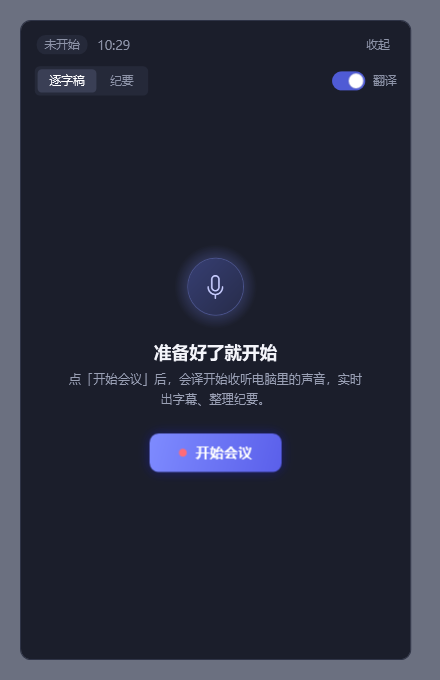
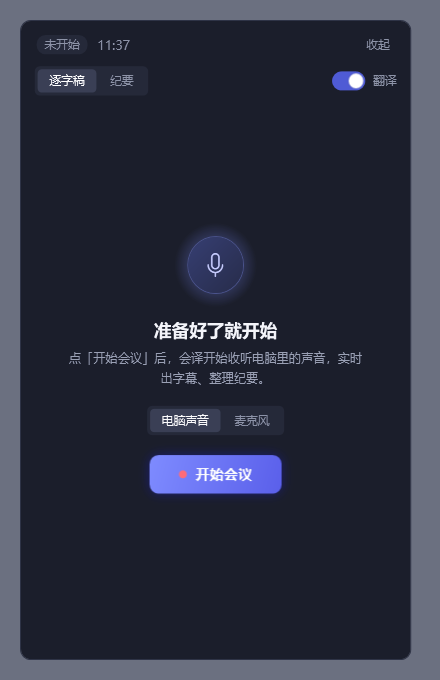
feat: 线下会议可以改听麦克风：开会前在实时面板选「电脑声音」或「麦克风」，设置里能指定用哪个麦克风

Changed region(s): [[0.1477, 0.3397, 0.7386, 0.7412], [0.7682, 0.4941, 0.8273, 0.5868], [0.2364, 0.0618, 0.2955, 0.0926]]

diff --git a/src/HuiYi/SettingsWindow.xaml b/src/HuiYi/SettingsWindow.xaml
@@ -14,6 +14,25 @@
                 <StackPanel>
                     <Border Style="{StaticResource Panel}">
                         <StackPanel>
+                            <TextBlock Text="收听" Style="{StaticResource Overline}"/>
+                            <DockPanel Style="{StaticResource Row}">
+                                <Border DockPanel.Dock="Right" Background="#E8EBF2" CornerRadius="5" Padding="2">
+                                    <StackPanel Orientation="Horizontal">
+                                        <RadioButton x:Name="FromPc" Content="电脑声音" GroupName="from" Style="{StaticResource Seg}" Checked="From_Checked"/>
+                                        <RadioButton x:Name="FromMic" Content="麦克风" GroupName="from" Style="{StaticResource Seg}" Checked="From_Checked"/>
+                                    </StackPanel>
+                                </Border>
+                                <TextBlock Text="听哪里的声音" VerticalAlignment="Center"/>
+                            </DockPanel>
+                            <DockPanel x:Name="ListenMicRow" Style="{StaticResource Row}">
+                                <ComboBox x:Name="ListenMicBox" DockPanel.Dock="Right" MinWidth="220" MaxWidth="300" SelectionChanged="Changed"/>
+                                <TextBlock Text="用哪个麦克风" VerticalAlignment="Center"/>
+                            </DockPanel>
+                            <TextBlock x:Name="FromHelp" Style="{StaticResource Helper}" TextWrapping="Wrap"/>
+                        </StackPanel>
+                    </Border>
+                    <Border Style="{StaticResource Panel}">
+                        <StackPanel>
                             <TextBlock Text="翻译" Style="{StaticResource Overline}"/>
                             <DockPanel Style="{StaticResource Row}">
                                 <CheckBox x:Name="TranslateOn" DockPanel.Dock="Right" Style="{StaticResource Switch}" Checked="Changed" Unchecked="Changed"/>

diff --git a/src/HuiYi/NotesWindow.xaml b/src/HuiYi/NotesWindow.xaml
@@ -164,8 +164,13 @@
                             </Border>
                         </Grid>
                         <TextBlock Text="准备好了就开始" FontSize="18" FontWeight="SemiBold" Foreground="#F4F5FA" HorizontalAlignment="Center" Margin="0,12,0,0"/>
-                        <TextBlock FontSize="12.5" Foreground="#9AA0B4" TextWrapping="Wrap" TextAlignment="Center" MaxWidth="300" Margin="0,8,0,22" LineHeight="20"
-                                   Text="点「开始会议」后，会译开始收听电脑里的声音，实时出字幕、整理纪要。"/>
+                        <TextBlock x:Name="ReadyText" FontSize="12.5" Foreground="#9AA0B4" TextWrapping="Wrap" TextAlignment="Center" MaxWidth="300" Margin="0,8,0,16" LineHeight="20"/>
+                        <Border Background="#252939" CornerRadius="5" Padding="2" HorizontalAlignment="Center" Margin="0,0,0,20">
+                            <StackPanel Orientation="Horizontal">
+                                <RadioButton x:Name="ReadyPc" Content="电脑声音" GroupName="from" Style="{StaticResource SegNight}" Checked="From_Checked"/>
+                                <RadioButton x:Name="ReadyMic" Content="麦克风" GroupName="from" Style="{StaticResource SegNight}" Checked="From_Checked"/>
+                            </StackPanel>
+                        </Border>
                         <Button Click="Start_Click" HorizontalAlignment="Center" Cursor="Hand">
                             <Button.Template>
                                 <ControlTemplate TargetType="Button">

diff --git a/src/HuiYi/SettingsWindow.xaml.cs b/src/HuiYi/SettingsWindow.xaml.cs
@@ -26,6 +26,7 @@ public partial class SettingsWindow : Window
         VoicesOn.IsChecked = s.SpeakerVoices;
         RedoOn.IsChecked = s.RedoSpeakers;
         Capturable.IsChecked = s.HideFromCaptures;
+        RenderFrom();
 
         Fill(PresetBox, ProviderPreset.All.Select(p => (p.Id, p.Name)).ToArray(), "");
         FillTemplates();
@@ -54,10 +55,12 @@ public partial class SettingsWindow : Window
         {
             // Templates may have changed in the template center.
             if (!TemplateDefaultBox.IsDropDownOpen) FillTemplates();
-            if (TranslateOn.IsChecked == model.Settings.TranslationOn) return;
+            var was = loading;
             loading = true;
             TranslateOn.IsChecked = model.Settings.TranslationOn;
-            loading = false;
+            // The source can also be switched on the waiting panel.
+            RenderFrom();
+            loading = was;
         };
         Activated += (_, _) => { if (!installing) RenderCable(); RenderVoices(); RenderModels(); };
         RenderProviders();
@@ -101,6 +104,7 @@ public partial class SettingsWindow : Window
         s.SpeakMonitor = MonitorOn.IsChecked == true;
         s.SpeakRouteMic = RouteOn.IsChecked == true;
         s.SpeakMicId = TagOf(MicBox) is { Length: > 0 } mic ? mic : null;
+        s.ListenMicId = TagOf(ListenMicBox) is { Length: > 0 } room ? room : null;
         s.FollowMeetingApps = FollowApps.IsChecked == true;
         s.SilenceEnd = Enum.TryParse<MeetingEndWatch.Silence>(TagOf(SilenceBox), out var sil) ? sil : MeetingEndWatch.Silence.Prompt;
         s.SilenceMinutes = int.TryParse(TagOf(SilenceMinBox), out var m) ? m : 10;
@@ -429,10 +433,31 @@ public partial class SettingsWindow : Window
 
     private bool installing;
 
+    private void From_Checked(object sender, RoutedEventArgs e)
+    {
+        if (loading) return;
+        model.SetListenSource(FromMic.IsChecked == true ? ListenSource.Mic : ListenSource.Computer);
+        RenderFrom();
+    }
+
+    private void RenderFrom()
+    {
+        var mic = model.Settings.ListenFrom == ListenSource.Mic;
+        FromPc.IsChecked = !mic;
+        FromMic.IsChecked = mic;
+        ListenMicRow.Visibility = mic ? Visibility.Visible : Visibility.Collapsed;
+        FromHelp.Text = mic
+            ? "线下会议用：大家围着一个麦克风讨论，会译听麦克风里的声音，按声音分出每个人。会议室的全向麦效果最好。"
+            : "线上会议、听视频用：会译听电脑放出来的声音，腾讯会议、飞书、Zoom 等都可以，不用接进会议软件。";
+        if (model.IsListening) FromHelp.Text += "改动从下一场会议开始生效。";
+    }
+
+
     private void FillMics()
     {
         var was = loading;
         loading = true;
+        Fill(ListenMicBox, [("", "自动（系统麦克风）"), .. DefaultDevices.Mics().Select(m => (m.Id, m.Name))], model.Settings.ListenMicId ?? "");
         Fill(MicBox, [("", "自动（系统原来的麦克风）"), .. DefaultDevices.Mics().Select(m => (m.Id, m.Name))], model.Settings.SpeakMicId ?? "");
         loading = was;
     }

diff --git a/src/HuiYi.Core/Audio/Capture.cs b/src/HuiYi.Core/Audio/Capture.cs
@@ -160,28 +160,47 @@ public sealed class LoopbackSource : IAudioSource
     }
 }
 
-/// The microphone (default capture device, or one chosen by endpoint id).
-public sealed class MicSource(string? deviceId = null) : IAudioSource
+/// The microphone (default capture device, or one chosen by endpoint id). The device is picked
+/// again whenever capture drops (a USB conference mic unplugged and back), like LoopbackSource.
+public sealed class MicSource : IAudioSource
 {
     public event Action<float[]>? Samples;
     public event Action<string>? Failed;
+    private readonly Func<string?> pick;
     private WasapiCapture? capture;
+    private volatile bool running;
+
+    public MicSource(string? deviceId = null) : this(() => deviceId) { }
+    public MicSource(Func<string?> pick) => this.pick = pick;
 
     public void Start()
+    {
+        running = true;
+        Open();
+    }
+
+    private void Open()
     {
         try
         {
             var en = new MMDeviceEnumerator();
-            var device = deviceId == null ? en.GetDefaultAudioEndpoint(DataFlow.Capture, Role.Communications)
-                : en.EnumerateAudioEndPoints(DataFlow.Capture, DeviceState.Active).FirstOrDefault(d => d.ID == deviceId)
-                  ?? en.GetDefaultAudioEndpoint(DataFlow.Capture, Role.Communications);
+            var id = pick();
+            var device = (id == null ? null
+                : en.EnumerateAudioEndPoints(DataFlow.Capture, DeviceState.Active).FirstOrDefault(d => d.ID == id))
+                ?? en.GetDefaultAudioEndpoint(DataFlow.Capture, Role.Communications);
             capture = new WasapiCapture(device, true, 20);
             var format = capture.WaveFormat;
             var resampler = new Resampler(format.SampleRate);
+            Log.Debug($"mic: {format.SampleRate} Hz {format.Channels} ch on {device.FriendlyName}");
             capture.DataAvailable += (_, e) =>
             {
                 if (e.BytesRecorded == 0) return;
                 Samples?.Invoke(resampler.Process(Resampler.ToMonoFloat(e.Buffer, e.BytesRecorded, format)));
+            };
+            capture.RecordingStopped += (_, e) =>
+            {
+                if (e.Exception != null) Log.Debug($"mic: stopped {e.Exception.Message}");
+                if (running) Task.Delay(1000).ContinueWith(_ => { if (running) Reopen(); });
             };
             capture.StartRecording();
         }
@@ -192,8 +211,15 @@ public sealed class MicSource(string? deviceId = null) : IAudioSource
         }
     }
 
+    private void Reopen()
+    {
+        try { capture?.Dispose(); } catch { }
+        Open();
+    }
+
     public void Stop()
     {
+        running = false;
         try { capture?.StopRecording(); } catch { }
     }
 

diff --git a/tools/HuiYi.Cli/Program.cs b/tools/HuiYi.Cli/Program.cs
@@ -46,6 +46,7 @@ switch (cmd)
     }
     case "listen":
     case "loopback":
+    case "mic":
     {
         var target = args.Length > 2 ? args[2] : "auto";
         var settings = new AppSettings { Target = target };
@@ -86,6 +87,22 @@ switch (cmd)
             fs.Finished += () => done.TrySetResult();
             source = fs;
         }
+        else if (cmd == "mic")
+        {
+            // The microphone path without a microphone: the file goes into CABLE Input and is
+            // heard on CABLE Output, a capture device like any USB conference mic.
+            var cableIn = VirtualCable.Input() ?? throw new InvalidOperationException("VB-CABLE is not installed");
+            var cableOut = VirtualCable.Output()!;
+            source = new MicSource(cableOut.ID);
+            var wasapi = new NAudio.Wave.WasapiOut(cableIn, NAudio.CoreAudioApi.AudioClientShareMode.Shared, true, 100);
+            wasapi.Init(new MediaFoundationReader(args[1]));
+            wasapi.PlaybackStopped += (_, _) => Task.Delay(2500).ContinueWith(_ => done.TrySetResult());
+            meeting.Start(source);
+            wasapi.Play();
+            await done.Task;
+            wasapi.Dispose();
+            source = null!;
+        }
         else
         {
             source = new LoopbackSource();
@@ -94,16 +111,19 @@ switch (cmd)
             player.Init(reader);
             player.PlaybackStopped += (_, _) => Task.Delay(2500).ContinueWith(_ => done.TrySetResult());
         }
-        meeting.Start(source);
-        player?.Play();
-        await done.Task;
+        if (source != null)
+        {
+            meeting.Start(source);
+            player?.Play();
+            await done.Task;
+        }
         // Read faster than real time, the decoder is still behind: wait until it stops moving.
         double fed;
         do
         {
             fed = listen.FedSeconds;
             await Task.Delay(1500);
-        } while (listen.FedSeconds > fed);
+        } while (cmd == "listen" && listen.FedSeconds > fed);
         var id = meeting.SessionId!;
         // Let the last translations land.
         await Task.Delay(3000);

diff --git a/src/HuiYi/AppModel.cs b/src/HuiYi/AppModel.cs
@@ -168,11 +168,32 @@ public sealed class AppModel
     {
         if (IsListening) return true;
         if (!await EnsureEngines()) return false;
-        // Listening to the cable would hear only our own interpreted voice, never the meeting.
-        if (FeedFile == null) DefaultDevices.KeepRealSpeaker();
-        Meeting!.Start(FeedFile != null ? new FileSource(FeedFile) : new LoopbackSource());
+        IAudioSource source;
+        if (FeedFile != null) source = new FileSource(FeedFile);
+        else if (Settings.ListenFrom == ListenSource.Mic) source = new MicSource(ListenMicId);
+        else
+        {
+            // Listening to the cable would hear only our own interpreted voice, never the meeting.
+            DefaultDevices.KeepRealSpeaker();
+            source = new LoopbackSource();
+        }
+        Meeting!.Start(source);
         StateChanged?.Invoke();
         return true;
+    }
+
+    /// The room's microphone: the one chosen, else my real one (never the cable, which is the
+    /// system default while interpreting is on).
+    public string? ListenMicId() =>
+        Settings.ListenMicId is { } chosen && DefaultDevices.Active(chosen) ? chosen : Routing.MyMicId();
+
+    /// Switched from the waiting panel or settings; a meeting already going keeps its source.
+    public void SetListenSource(ListenSource from)
+    {
+        if (Settings.ListenFrom == from) return;
+        Settings.ListenFrom = from;
+        Settings.Save();
+        StateChanged?.Invoke();
     }
 
     public void StopListening()

diff --git a/src/HuiYi/NotesWindow.xaml.cs b/src/HuiYi/NotesWindow.xaml.cs
@@ -80,6 +80,7 @@ public partial class NotesWindow : Window
             PlaceTopRight();
             placed = true;
         }
+        RenderFrom();
         ReadyPanel.Visibility = Visibility.Visible;
         // Nothing behind the button: not the last meeting's transcript, not its notes.
         LinesScroll.Visibility = Visibility.Hidden;
@@ -95,6 +96,28 @@ public partial class NotesWindow : Window
         EndBanner.Visibility = Visibility.Collapsed;
         Show();
         if (first) PlaceTopRight();
+    }
+
+    private bool renderingFrom;
+
+    /// Online meeting or a room round one microphone: chosen right before starting.
+    private void RenderFrom()
+    {
+        var mic = model.Settings.ListenFrom == ListenSource.Mic;
+        renderingFrom = true;
+        ReadyPc.IsChecked = !mic;
+        ReadyMic.IsChecked = mic;
+        renderingFrom = false;
+        ReadyText.Text = mic
+            ? "点「开始会议」后，会译开始收听麦克风，适合大家围着一个麦克风开会。"
+            : "点「开始会议」后，会译开始收听电脑里的声音，实时出字幕、整理纪要。";
+    }
+
+    private void From_Checked(object sender, RoutedEventArgs e)
+    {
+        if (renderingFrom || ReadyText == null) return;
+        model.SetListenSource(ReadyMic.IsChecked == true ? ListenSource.Mic : ListenSource.Computer);
+        RenderFrom();
     }
 
     private async void Start_Click(object sender, RoutedEventArgs e)

diff --git a/src/HuiYi.Core/Settings.cs b/src/HuiYi.Core/Settings.cs
@@ -4,6 +4,7 @@ namespace HuiYi;
 
 public enum DisplayMode { Notes, Subtitles }
 public enum SpeakKey { RightCtrl, RightAlt }
+public enum ListenSource { Computer, Mic }
 
 /// Every setting, saved as %APPDATA%\HuiYi\settings.json. Never holds an API key.
 public sealed class AppSettings
@@ -18,6 +19,11 @@ public sealed class AppSettings
     /// "auto" follows the system languages; otherwise a target code ("zh-CN", "en"…).
     public string Target { get; set; } = "auto";
     public DisplayMode Display { get; set; } = DisplayMode.Notes;
+    /// Where the meeting is heard: what the PC plays (online meetings, videos), or a microphone
+    /// (people in one room round a conference mic).
+    public ListenSource ListenFrom { get; set; } = ListenSource.Computer;
+    /// The microphone listened to with ListenSource.Mic (an endpoint id); null: the system's own.
+    public string? ListenMicId { get; set; }
     /// Keep the live panel and subtitles out of screenshots, recordings and screen shares (with a
     /// badge). Off by default: people screenshot the panel. (Replaces NotesCapturable, whose saved
     /// "false" would otherwise keep hiding it.)

diff --git a/README.md b/README.md
@@ -24,7 +24,7 @@
 
 ## 它是做什么的
 
-开跨语言的会、听外语分享、或者只是不想边开会边记笔记的时候，打开会译就行。它不需要接进任何会议软件：**电脑里放出来的声音它都能听**，腾讯会议、飞书、钉钉、Zoom、Teams、网页会议、直播和视频都可以。
+开跨语言的会、听外语分享、或者只是不想边开会边记笔记的时候，打开会译就行。它不需要接进任何会议软件：**电脑里放出来的声音它都能听**，腾讯会议、飞书、钉钉、Zoom、Teams、网页会议、直播和视频都可以。**线下开会也行**：切到「麦克风」，大家围着会议室的麦克风讨论，会译按声音分出每个人。
 
 | | |
 |---|---|
@@ -39,7 +39,7 @@
 
 ### 开会时：实时面板
 
-单击任务栏右下角的会译图标，会弹出实时面板，点「开始会议」才开始收听，不会一点就录。右键图标是常用入口的菜单。
+单击任务栏右下角的会译图标，会弹出实时面板，点「开始会议」才开始收听，不会一点就录。开始前可以选听**电脑声音**（线上会议）还是**麦克风**（线下会议室），在「设置 › 字幕 › 收听」里还能指定用哪个麦克风。右键图标是常用入口的菜单。
 
 <p align="center">
   <img src="docs/images/panel-ready.png" width="320" alt="实时面板：点「开始会议」开始收听">
@@ -156,6 +156,7 @@ huiyi-cli models                        # 下载 / 校验模型
 huiyi-cli transcribe <音频>             # 整段识别一次
 huiyi-cli listen <音频> [目标语言]       # 在文件上跑完整的听写 + 翻译链路
 huiyi-cli loopback <音频> [目标语言]     # 在扬声器上播放，同时采集系统声音识别（真实路径）
+huiyi-cli mic <音频> [目标语言]          # 播进 VB-CABLE，再从 CABLE Output 当麦克风采集识别（测麦克风模式）
 huiyi-cli translate <文本> <源> <目标>
 huiyi-cli dialog <输出.wav>             # 用两个 Windows 语音合成一段两人对话（测发言人区分）
 huiyi-cli voices | say <文本> <语言> | micusers
